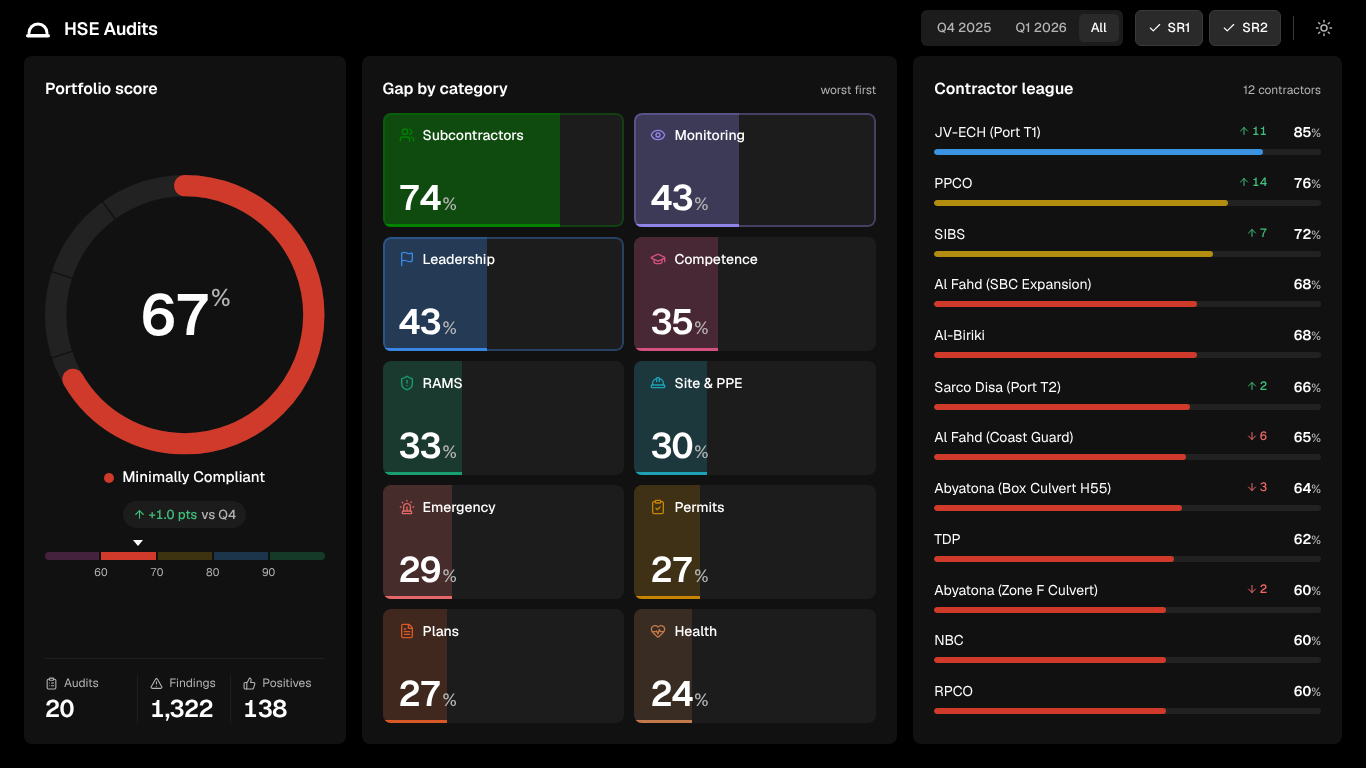
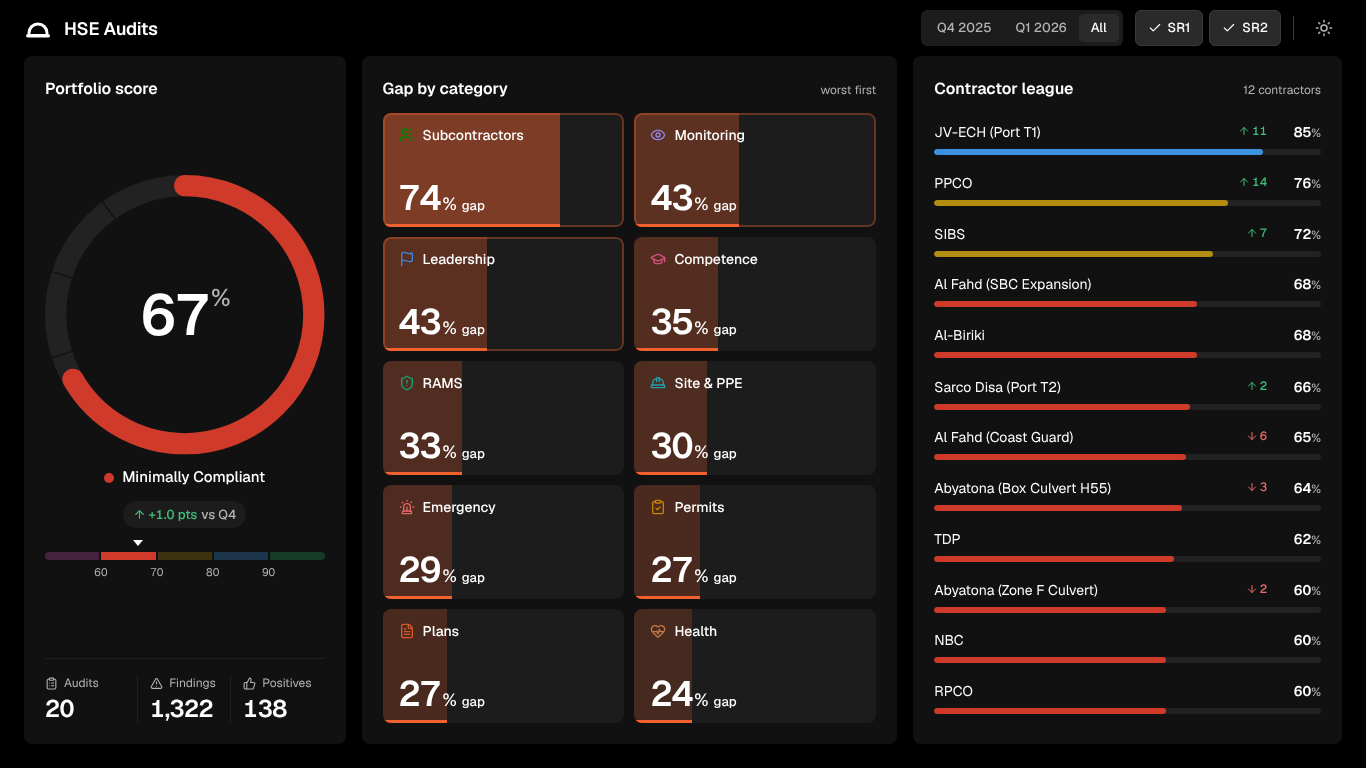
fix(ui): gap tiles use one severity ramp; drop overflow-x mask
Gap fill is now a single warm hue (--gap-hue) whose density follows the
absolute gap rate, identical across tiles and themes; category hue stays on
the icon only. Figures carry a 'gap' unit. Removed body overflow-x:hidden so
the no-horizontal-scroll e2e check is real. Screenshots regenerated.

Claude-Session: https://claude.ai/code/session_017sV5CTZ2p1oqXC1ZAUzU4v

diff --git a/components/charts/GapRadar.tsx b/components/charts/GapRadar.tsx
@@ -17,16 +17,14 @@ const EASE = [0.16, 1, 0.3, 1] as const;
 
 /**
  * Gap radar: ten tiles ranked worst first. Each tile's fill runs from the left to its gap rate
- * (score-based: 0 = no gap, 1 = total gap) in the category's hue; the fill gets denser as the gap grows.
+ * (score-based: 0 = no gap, 1 = total gap) in ONE warm severity hue (--gap-hue) whose density follows the
+ * absolute gap, so equal gaps look equal on every tile. The category hue marks only the icon.
  * The worst three pulse. Each tile links to its category drill-down and morphs via layoutId.
  */
 export function GapRadar({ gaps, query, onSelect }: { gaps: GapRow[]; query: string; onSelect?: (c: CategoryId) => void }) {
   const reduce = useReducedMotion();
   const ranked = [...gaps].sort((a, b) => (b.gapRate ?? -1) - (a.gapRate ?? -1));
   const worst = new Set(ranked.filter((g) => g.gapRate !== null).slice(0, 3).map((g) => g.category));
-  const rates = ranked.map((g) => g.gapRate).filter((x): x is number => x !== null);
-  const lo = Math.min(...rates);
-  const hi = Math.max(...rates);
 
   return (
     <ol className="grid min-h-0 flex-1 auto-rows-[112px] grid-cols-2 gap-2.5 min-[1200px]:[grid-template-rows:repeat(5,minmax(0,1fr))]">
@@ -35,9 +33,8 @@ export function GapRadar({ gaps, query, onSelect }: { gaps: GapRow[]; query: str
         const Icon = CATEGORY_ICONS[cat.icon];
         const ok = g.gapRate !== null;
         const rate = ok ? g.gapRate! : 0;
-        // intensity: 18% tint for the mildest gap, 46% for the worst (by rank within the current view)
-        const t = ok && hi > lo ? (rate - lo) / (hi - lo) : 0.5;
-        const tint = Math.round(18 + 28 * t);
+        // Severity: one warm ramp shared by every tile, keyed to the absolute gap (same % = same fill).
+        const tint = Math.round(8 + 52 * rate);
         const change = ok && g.prevGapRate !== null ? rate - g.prevGapRate : null;
         const hot = worst.has(g.category);
         const style = { '--cat-l': cat.color, '--cat-d': CATEGORY_COLORS_DARK[g.category] } as CSSProperties;
@@ -56,18 +53,18 @@ export function GapRadar({ gaps, query, onSelect }: { gaps: GapRow[]; query: str
               <motion.span
                 aria-hidden
                 className="absolute inset-y-0 left-0 origin-left"
-                style={{ width: `${rate * 100}%`, background: `color-mix(in oklab, var(--c) ${tint}%, transparent)` }}
+                style={{ width: `${rate * 100}%`, background: `color-mix(in oklab, var(--gap-hue) ${tint}%, transparent)` }}
                 initial={reduce ? false : { scaleX: 0 }}
                 animate={{ scaleX: 1 }}
                 transition={{ duration: 0.9, delay: reduce ? 0 : 0.15 + i * 0.05, ease: EASE }}
               >
-                <span className="absolute inset-x-0 bottom-0 h-[3px]" style={{ background: 'var(--c)' }} />
+                <span className="absolute inset-x-0 bottom-0 h-[3px]" style={{ background: 'var(--gap-hue)' }} />
               </motion.span>
               {hot && (
                 <motion.span
                   aria-hidden
                   className="pointer-events-none absolute inset-0 rounded-[var(--radius-card)]"
-                  style={{ boxShadow: 'inset 0 0 0 2px var(--c)' }}
+                  style={{ boxShadow: 'inset 0 0 0 2px var(--gap-hue)' }}
                   initial={{ opacity: 0.35 }}
                   animate={reduce ? { opacity: 1 } : { opacity: [0.35, 1, 0.35] }}
                   transition={reduce ? { duration: 0 } : { duration: 2.2, repeat: Infinity, ease: 'easeInOut' }}
@@ -80,7 +77,8 @@ export function GapRadar({ gaps, query, onSelect }: { gaps: GapRow[]; query: str
               <span className="relative flex items-end justify-between gap-2">
                 <span className="font-semibold leading-none tracking-[-0.03em]" style={{ fontSize: 'clamp(26px, 4.6svh, 46px)' }}>
                   {ok ? <CountUp value={rate * 100} format={fmt} /> : <span className="text-faint">—</span>}
-                  {ok && <span className="ml-0.5 text-[0.5em] font-medium text-muted">%</span>}
+                  {ok && <span className="ml-0.5 text-[0.5em] font-medium">%</span>}
+                  {ok && <span className="ml-1.5 text-[13px] font-medium tracking-normal">gap</span>}
                 </span>
                 {change !== null && Math.abs(change) >= 0.005 && (
                   <span

diff --git a/app/globals.css b/app/globals.css
@@ -24,6 +24,7 @@
   --positive: #1f7a45;
   --negative: #c4242a;
   --track: #eceef1;
+  --gap-hue: #d9461b; /* gap severity: one warm hue, density = gap rate */
 
   --band-excellent: #0f8a4a;
   --band-good: #1f7fc4;
@@ -52,6 +53,7 @@
   --positive: #3fc07a;
   --negative: #f06a6a;
   --track: #222222;
+  --gap-hue: #f0612f;
 
   --band-excellent: #1fa463;
   --band-good: #3b93e0;
@@ -77,6 +79,7 @@
     --positive: #3fc07a;
     --negative: #f06a6a;
     --track: #222222;
+    --gap-hue: #f0612f;
     --band-excellent: #1fa463;
     --band-good: #3b93e0;
     --band-partial: #b28d10;
@@ -112,7 +115,6 @@ body {
 body {
   font-family: var(--font-geist-sans), system-ui, sans-serif;
   -webkit-font-smoothing: antialiased;
-  overflow-x: hidden;
 }
 
 .num {
